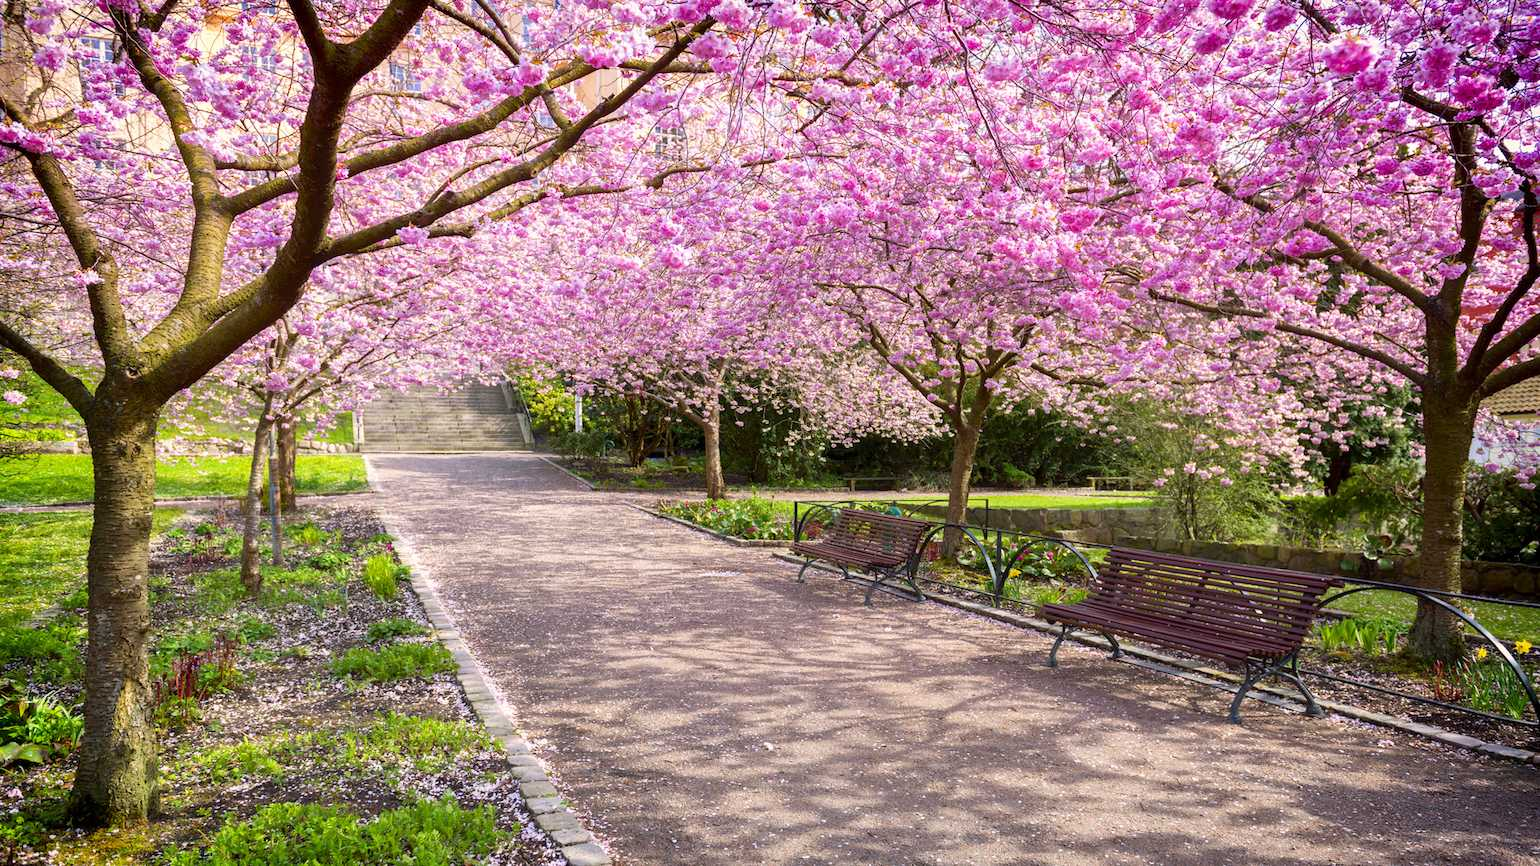
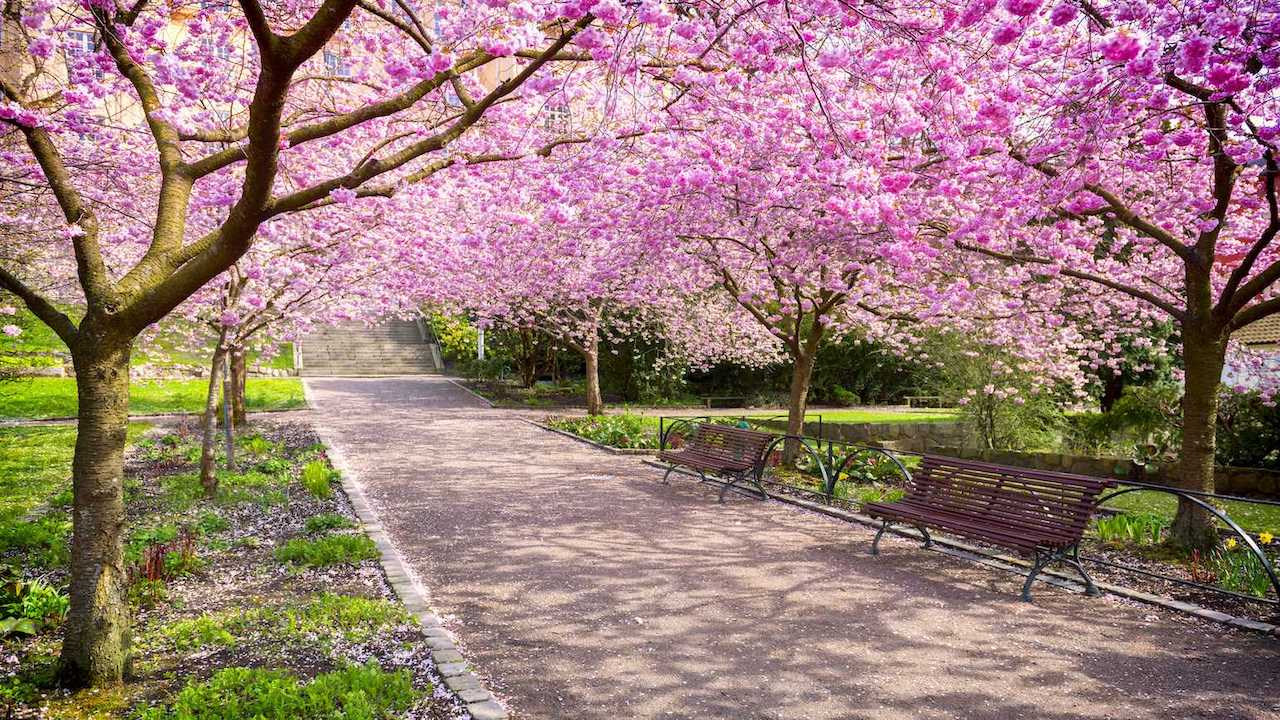
fix bug with border-radius slider and change size of img

diff --git a/src/style/Weather.scss b/src/style/Weather.scss
@@ -45,10 +45,10 @@
         font-size: 700%;
         width: 100%;
         margin: auto;
-        .logo-wrapper{
+        .logo-wrapper {
             width: 100%;
             margin: 0;
-            span{
+            span {
                 display: inline-block;
             }
             span:nth-child(2n) {
@@ -62,24 +62,27 @@
         width: 65%;
         margin: auto;
         margin-top: 40px;
-        span{
+        span {
             display: inline-block;
         }
     }
 }
-.footer{
+.footer {
     width: 100%;
     margin: auto;
     text-align: center;
     border-top: 0.5px solid white;
     margin-top: 90px;
 }
-.slider{
-    width: 40%;
+.slider {
+    width: 60%;
     margin: 45px auto;
-    img{
+    background-color: black;
+    border-radius: 45px;
+    overflow: hidden;
+    img {
         border-radius: 45px;
-        opacity: .8;
+        opacity: 0.8;
     }
 }
 
@@ -115,7 +118,7 @@
         &-error {
             margin-top: 20px;
         }
-        &-loading{
+        &-loading {
             .loader {
                 color: #ffff;
                 font-size: 90px;

diff --git a/src/components/Page/Slider.tsx b/src/components/Page/Slider.tsx
@@ -38,12 +38,12 @@ const Slider: FC = () => {
                 items={images}
                 infinite={true}
                 showThumbnails={false}
-                autoPlay={false}
+                autoPlay={true}
                 showBullets={true}
                 showFullscreenButton={false}
                 showNav={false}
                 showPlayButton={false}
-                slideInterval={8000}
+                slideInterval={6000}
                 slideDuration={350}
             />
         </div>
